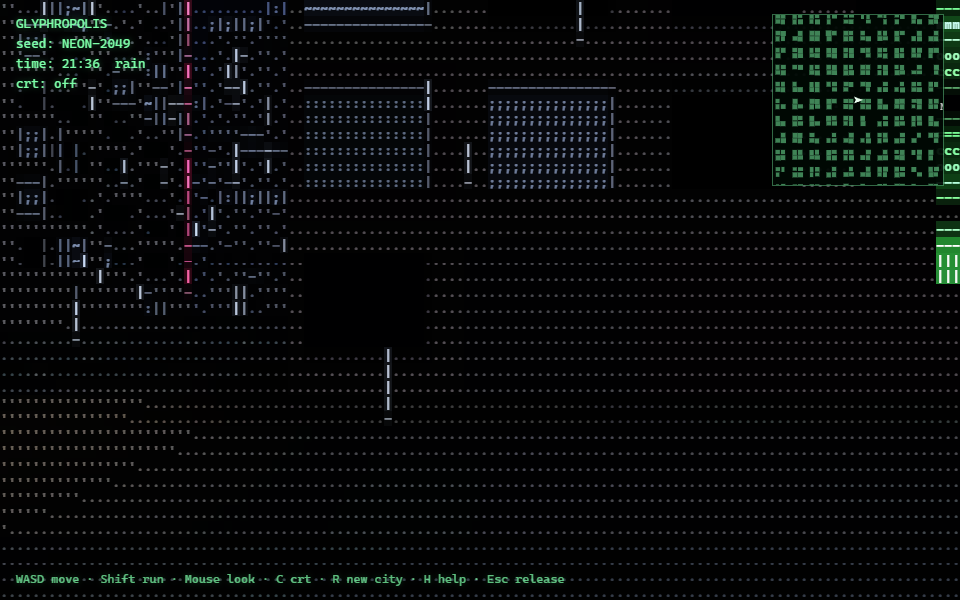
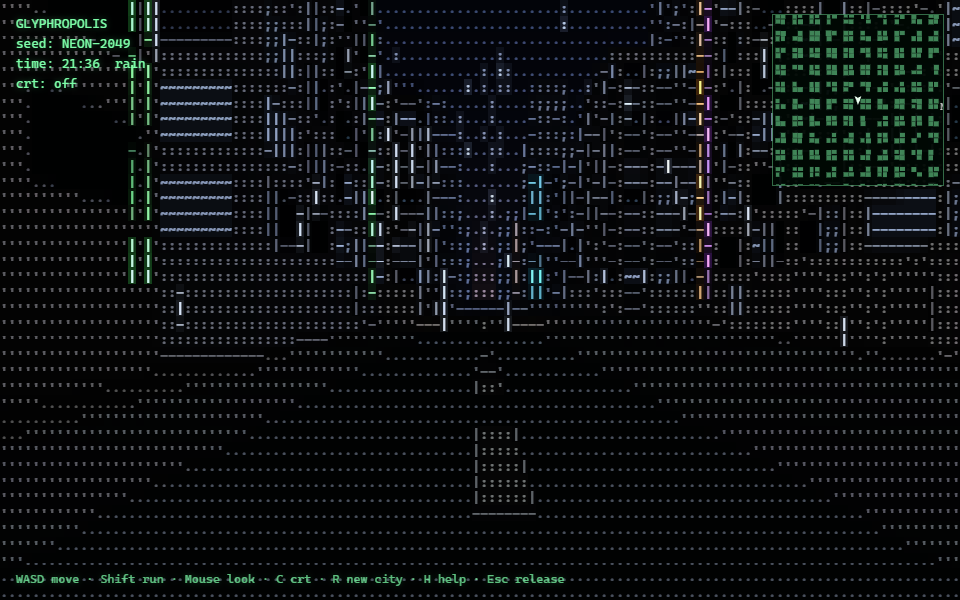
Fix spawn framing (face along road, centered vanishing point) and brighten night city

diff --git a/src/render/daynight.ts b/src/render/daynight.ts
@@ -14,15 +14,15 @@ interface SkyKey {
 }
 
 const K: SkyKey[] = [
-  { h: 0,  top: 0x02040c, horizon: 0x0a0f1e, sun: 0x8090c0, sunI: 0.05, amb: 0.25, fogD: 1.05, stars: 0.9 },
-  { h: 4,  top: 0x02040c, horizon: 0x0a0f1e, sun: 0x8090c0, sunI: 0.05, amb: 0.25, fogD: 1.05, stars: 0.9 },
+  { h: 0,  top: 0x02040c, horizon: 0x0a0f1e, sun: 0x8090c0, sunI: 0.05, amb: 0.3, fogD: 1.05, stars: 0.9 },
+  { h: 4,  top: 0x02040c, horizon: 0x0a0f1e, sun: 0x8090c0, sunI: 0.05, amb: 0.3, fogD: 1.05, stars: 0.9 },
   { h: 6,  top: 0x1a1e3a, horizon: 0x6e3a4a, sun: 0xff9060, sunI: 0.5,  amb: 0.34, fogD: 0.9,  stars: 0.15 },
   { h: 8,  top: 0x3a6a9e, horizon: 0x9db8c8, sun: 0xfff0d8, sunI: 1.5,  amb: 0.62, fogD: 0.55, stars: 0 },
   { h: 12, top: 0x4a86c0, horizon: 0xb8cfd8, sun: 0xffffff, sunI: 1.75, amb: 0.72, fogD: 0.45, stars: 0 },
   { h: 17, top: 0x3a5c96, horizon: 0xc08a5a, sun: 0xffc890, sunI: 1.3,  amb: 0.58, fogD: 0.6,  stars: 0 },
   { h: 19, top: 0x201a3e, horizon: 0x8a4a3e, sun: 0xff7850, sunI: 0.4,  amb: 0.34, fogD: 0.9,  stars: 0.3 },
-  { h: 21, top: 0x050814, horizon: 0x141a2c, sun: 0x8090c0, sunI: 0.06, amb: 0.25, fogD: 1.0,  stars: 0.8 },
-  { h: 24, top: 0x02040c, horizon: 0x0a0f1e, sun: 0x8090c0, sunI: 0.05, amb: 0.25, fogD: 1.05, stars: 0.9 },
+  { h: 21, top: 0x050814, horizon: 0x141a2c, sun: 0x8090c0, sunI: 0.06, amb: 0.3, fogD: 1.0,  stars: 0.8 },
+  { h: 24, top: 0x02040c, horizon: 0x0a0f1e, sun: 0x8090c0, sunI: 0.05, amb: 0.3, fogD: 1.05, stars: 0.9 },
 ];
 
 const cA = new THREE.Color(), cB = new THREE.Color();

diff --git a/src/main.ts b/src/main.ts
@@ -51,18 +51,17 @@ async function main() {
   const bloom = new Bloom();
   const hud = new Hud(hudEl);
 
-  // Spawn on a road, facing whichever compass direction holds downtown.
+  // Spawn centered on a north-south road, facing ALONG it (whichever end
+  // holds downtown) so the road's vanishing point sits dead-center.
   const sx = 3, sz = 14;
-  const dirs: [number, number, number][] = [
-    [0, -1, 0], [1, 0, -Math.PI / 2], [0, 1, Math.PI], [-1, 0, Math.PI / 2],
-  ];
+  const dirs: [number, number, number][] = [[0, -1, 0], [0, 1, Math.PI]];
   let yaw = 0, best = -1;
   for (const [dx, dz, y] of dirs) {
     const d = districtAt(seedNum, sx + dx * 300, sz + dz * 300);
     const score = d === "downtown" ? 2 : d === "midtown" ? 1 : 0;
     if (score > best) { best = score; yaw = y; }
   }
-  const player = new Player(yaw, -0.02);
+  const player = new Player(yaw, 0);
   player.x = sx; player.z = sz;
   input.yaw = yaw;
 
@@ -122,7 +121,7 @@ async function main() {
     U.uSkyTop.value.copy(dn.top);
     U.uSkyHorizon.value.copy(dn.horizon);
     U.uStars.value = dn.stars;
-    U.uExposure.value = 1.5 - dn.amb * 0.6;
+    U.uExposure.value = 1.72 - dn.amb * 0.7;
 
     weather.update(dt, dn, camera.position);
     world.update(player.x, player.z, CITY.genBudgetPerFrameMs);

diff --git a/src/render/textmode.ts b/src/render/textmode.ts
@@ -114,7 +114,7 @@ const FRAG = `
     vec4 sA = texture2D(tScene, uvA); vec4 sB = texture2D(tScene, uvB);
     vec4 sC = texture2D(tScene, uvC); vec4 sD = texture2D(tScene, uvD);
     vec3 c = (sA.rgb + sB.rgb + sC.rgb + sD.rgb) * 0.25;
-    c = pow(c, vec3(0.78)) * uExposure; // exposure: lifted at night, tamed by day
+    c = pow(c, vec3(0.72)) * uExposure; // exposure: lifted at night, tamed by day
     float a = (sA.a + sB.a + sC.a + sD.a) * 0.25;
     float lA = dot(sA.rgb, vec3(0.2126, 0.7152, 0.0722));
     float lB = dot(sB.rgb, vec3(0.2126, 0.7152, 0.0722));

diff --git a/src/render/materials.ts b/src/render/materials.ts
@@ -252,7 +252,7 @@ export function makeGroundMaterial(): THREE.ShaderMaterial {
           }
         }
         float night = 1.0 - smoothstep(0.25, 0.55, uAmbient);
-        vec3 poolCol = vec3(1.0, 0.72, 0.38) * pool * night * (0.10 + 0.35 * uWet);
+        vec3 poolCol = vec3(1.0, 0.72, 0.38) * pool * night * (0.16 + 0.4 * uWet);
         col += poolCol;
 
         // wet asphalt: darker + sky reflection

diff --git a/src/entities/weather.ts b/src/entities/weather.ts
@@ -102,7 +102,7 @@ export class Weather {
     U.uDim.value = this.dim;
     U.uWet.value = this.wet;
     U.uFogD.value = dn.fogD * this.fogMul;
-    U.uLitP.value = Math.pow(1 - dn.amb, 1.6) * 0.42 + 0.03;
+    U.uLitP.value = Math.pow(1 - dn.amb, 1.6) * 0.55 + 0.04;
 
     // lightning during real rain
     this.flashTimer -= dt * this.rain;
